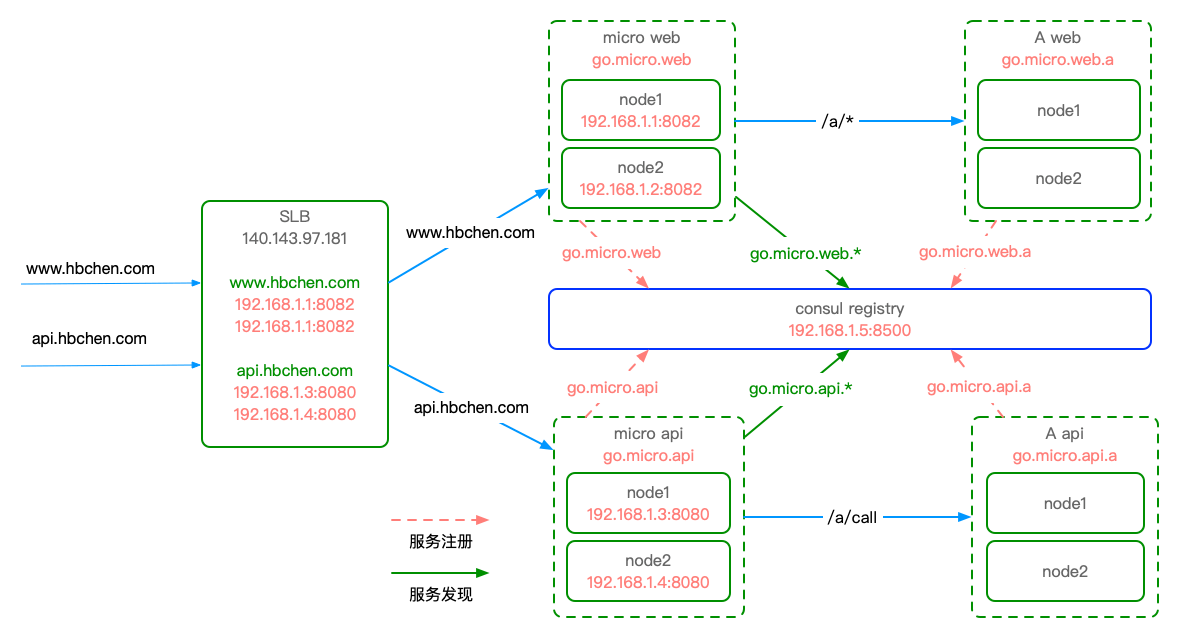
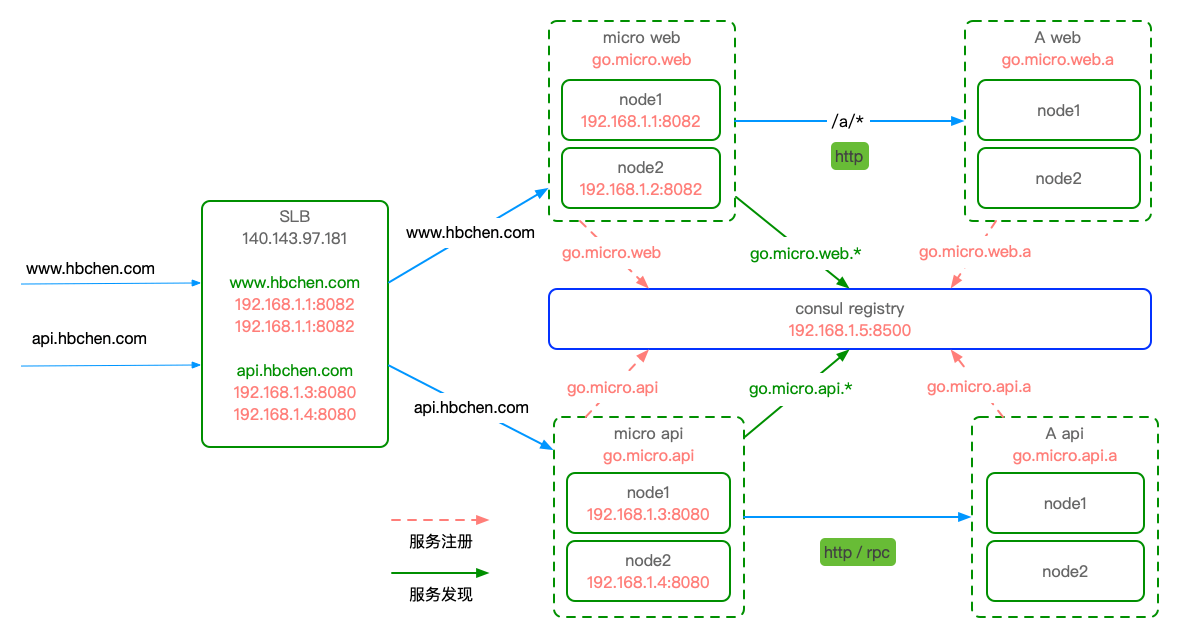
micro api课程参考文档

Changed region(s): [[0.6718, 0.8041, 0.7634, 0.8934], [0.7023, 0.1787, 0.7634, 0.268]]

diff --git a/docs/Micro API/example/main_02.go b/docs/Micro API/example/main_02.go
@@ -48,9 +48,6 @@ func init() {
 			}),
 			plugin.WithCommand(),
 			plugin.WithHandler(func(h http.Handler) http.Handler {
-				if disable {
-
-				}
 				md := make(map[string]string)
 
 				reqTotalCounter := prometheus.NewCounterVec(
@@ -75,6 +72,11 @@ func init() {
 				prometheus.DefaultRegisterer = wrapreg
 
 				return http.HandlerFunc(func(w http.ResponseWriter, r *http.Request) {
+					if disable {
+						h.ServeHTTP(w, r)
+						return
+					}
+
 					// 拦截metrics path，默认"/metrics"
 					if r.URL.Path == "/metrics" {
 						promhttp.Handler().ServeHTTP(w, r)

diff --git a/docs/Micro API/README.md b/docs/Micro API/README.md
@@ -11,11 +11,11 @@
 
 ## 微服务架构-网关
 
-<img src="/docs/Micro API/img/micro-arch.png" width="50%">
+<img src="/docs/Micro API/img/micro-arch.png" width="75%">
 
 ## micro网关
 
-### 演示: 启动网关
+#### 演示: 启动网关
 
 **API**
 
@@ -49,7 +49,6 @@ micro -h
 --registry_address value        Comma-separated list of registry addresses [$MICRO_REGISTRY_ADDRESS]
 --server_name value             Name of the server. go.micro.srv.example [$MICRO_SERVER_NAME]
 --transport value               Transport mechanism used; http [$MICRO_TRANSPORT]
---enable_stats                  Enable stats [$MICRO_ENABLE_STATS]
 ```
 
 **command options**
@@ -60,6 +59,12 @@ micro api -h
 --namespace value  Set the namespace used by the API e.g. com.example.api [$MICRO_API_NAMESPACE]
 --resolver value   Set the hostname resolver used by the API {host, path, grpc} [$MICRO_API_RESOLVER]
 --enable_rpc       Enable call the backend directly via /rpc [$MICRO_API_ENABLE_RPC]
+```
+
+```bash
+micro web -h
+--address value    Set the web UI address e.g 0.0.0.0:8082 [$MICRO_WEB_ADDRESS]
+--namespace value  Set the namespace used by the Web proxy e.g. com.example.web [$MICRO_WEB_NAMESPACE]
 ```
 
 #### 演示: options
@@ -88,11 +93,60 @@ go run meta.go --registry=etcd --server_name=com.hbchen.api.example
 curl -XGET "http://localhost:9080/example?name=john"
 curl -XPOST -H 'Content-Type: application/json' -d '{"name": "john"}' "http://localhost:9080/example"
 ```
+
 ### 服务发现
 
-<img src="/docs/Micro API/img/micro-ds.png" width="50%">
+> 自定义`namespace`适合启动不同类型的`API`
+
+<img src="/docs/Micro API/img/micro-ds.png" width="75%">
 
 ### 路由
+
+**Handler**
+
+| - | 类型 | 说明
+----|----|----
+1 | rpc | 通过RPC向go-micro应用转送请求，只接收GET和POST请求，GET转发`RawQuery`，POST转发`Body`
+2 | api | 与rpc差不多，但是会把完整的http头封装向下传送，不限制请求方法
+3 | http或proxy | 以反向代理的方式使用**API**，相当于把普通的web应用部署在**API**之后，让外界像调api接口一样调用web服务
+4 | web | 与http差不多，但是支持websocket
+5 | event | 代理event事件服务类型的请求
+6 | meta* | 默认值，元数据，通过在代码中的`Endpoint`配置选择使用上述中的某一个处理器，默认RPC
+
+- `rpc`或`api`模式同样可以使用`Endpoint`定义路由。
+
+<img src="/docs/Micro API/img/micro-router.png" width="75%">
+
+- router过程
+	- endpoint
+		- 自定义路由
+	- resolver
+		- 路径规则
+
+**Resolver**
+
+请求路径    |    后台服务    |    接口方法
+----    |    ----    |    ----
+/foo/bar    |    go.micro.api.foo    |    Foo.Bar
+/foo/bar/baz    |    go.micro.api.foo    |    Bar.Baz
+/foo/bar/baz/cat    |    go.micro.api.foo.bar    |    Baz.Cat
+/v1/foo/bar    |    go.micro.api.v1.foo    |    Foo.Bar
+/v1/foo/bar/baz    |    go.micro.api.v1.foo    |    Bar.Baz
+/v2/foo/bar    |    go.micro.api.v2.foo    |    Foo.Bar
+/v2/foo/bar/baz    |    go.micro.api.v2.foo    |    Bar.Baz
+
+
+`proxy`只需要服务名称，用于服务发现，将http请求转发到对应的服务
+
+请求路径    |    服务    |    后台服务路径
+---    |    ---    |    ---
+/foo    |   go.micro.api.foo	|   /foo
+/foo/bar	|   go.micro.api.foo	|   /foo/bar
+/greeter    |    go.micro.api.greeter    |    /greeter
+/greeter/:name    |    go.micro.api.greeter    |    /greeter/:name
+
+
+#### 演示: API Handler
 
 <details>
   <summary> 默认网关 </summary>
@@ -111,27 +165,7 @@ curl -XPOST -H 'Content-Type: application/json' -d '{"name": "john"}' "http://lo
 
 </details>
 
-- router过程
-	- endpoint
-		- 自定义路由
-	- resolver
-		- request -> endpoint Name & Method（）
-	- registry
-		- services
-
-**Handler**
-
-| - | 类型 | 说明
-----|----|----
-1 | rpc | 通过RPC向go-micro应用转送请求，只接收GET和POST请求，GET转发`RawQuery`，POST转发`Body`
-2 | api | 与rpc差不多，但是会把完整的http头封装向下传送，不限制请求方法
-3 | http或proxy | 以反向代理的方式使用**API**，相当于把普通的web应用部署在**API**之后，让外界像调api接口一样调用web服务
-4 | web | 与http差不多，但是支持websocket
-5 | event | 代理event事件服务类型的请求
-6 | meta* | 默认值，元数据，通过在代码中的`Endpoint`配置选择使用上述中的某一个处理器，默认RPC
-
-#### 演示: API Handler
-
+**--handler=api**
 ```bash
 micro --registry=etcd api --handler=api
 
@@ -144,6 +178,8 @@ curl -XGET "http://localhost:8080/example/call?name=john"
 curl -XPOST -H 'Content-Type: application/json' -d '{data:123}' http://localhost:8080/example/foo/bar
 ```
 
+
+**--handler=proxy**
 ```bash
 micro --registry=etcd api --handler=proxy
 
@@ -219,6 +255,8 @@ curl -XPOST -H 'Content-Type: application/json' -d '{"name": "john"}' "http://lo
 ```
 
 ### plugin
+
+plugin是使用网关的关键，类似各种web框架的中间件，通过`HTTP`请求上下文的前置、后置处理实现拦截、装饰等各种场景的需求，如：
 
 - 跨域
 - 认证鉴权
